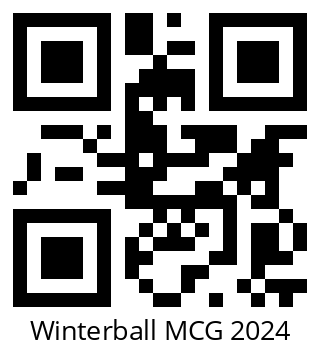
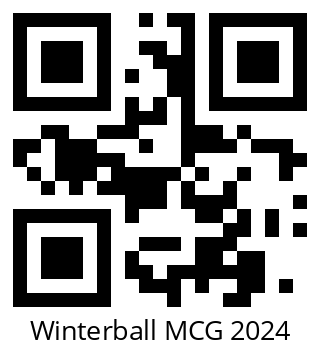
Restliche Mails

diff --git a/pleasePay.php b/pleasePay.php
@@ -39,7 +39,7 @@ if ($conn->connect_error) {
 
 //ALLE KÄUFER MAILS GÖNNEEEENN !!!!!!!!!!!! LIMIT STATEMENT ENTFERNEN, WENN IN PRODUCTION !!!!!!!!!!!!!!!!!!!!!!!!!!!!!!
 #$sqlGetAllMails = "SELECT email, vorname, nachname, open FROM käufer WHERE email LIKE '%@gmail.com' AND ID >= 86 LIMIT 0";
-$sqlGetAllMails = "SELECT email, vorname, nachname, open FROM käufer WHERE open > 0";
+$sqlGetAllMails = "SELECT email, vorname, nachname, open FROM käufer WHERE open > 0 AND ID >= 225";
 $stmt = $conn->prepare($sqlGetAllMails);
 $stmt->execute();
 $result = $stmt->get_result();

diff --git a/qrcode/qrcode.php b/qrcode/qrcode.php
@@ -13,7 +13,7 @@ $builder = new Builder(
     writer: new PngWriter(),
     writerOptions: [],
     validateResult: false,
-    data: 'Test',
+    data: 'Rapha',
     encoding: new Encoding('UTF-8'),
     errorCorrectionLevel: ErrorCorrectionLevel::High,
     size: 300,
